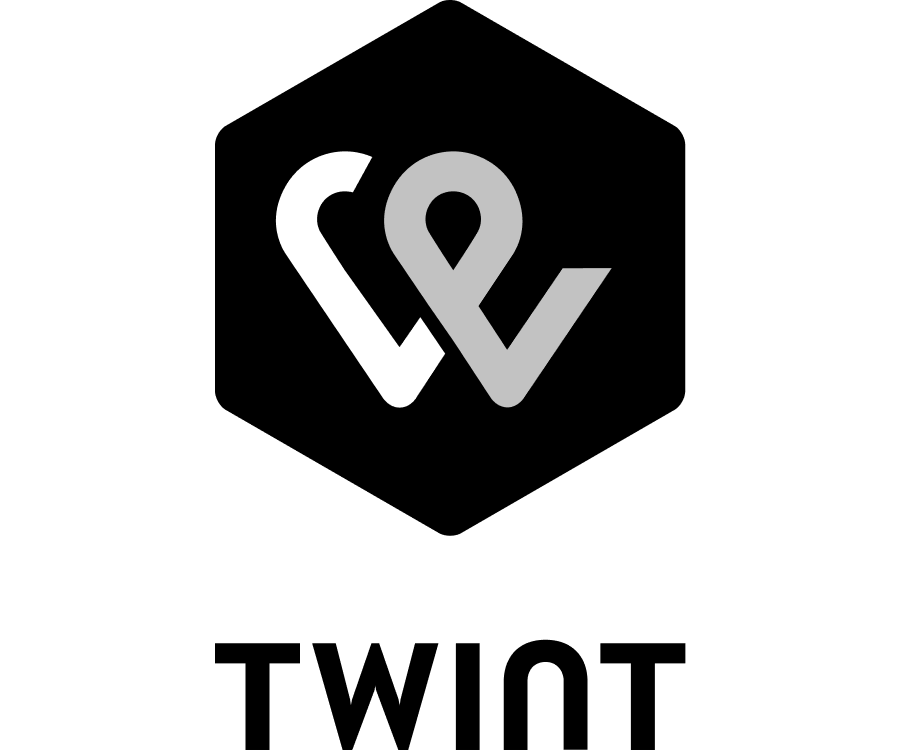
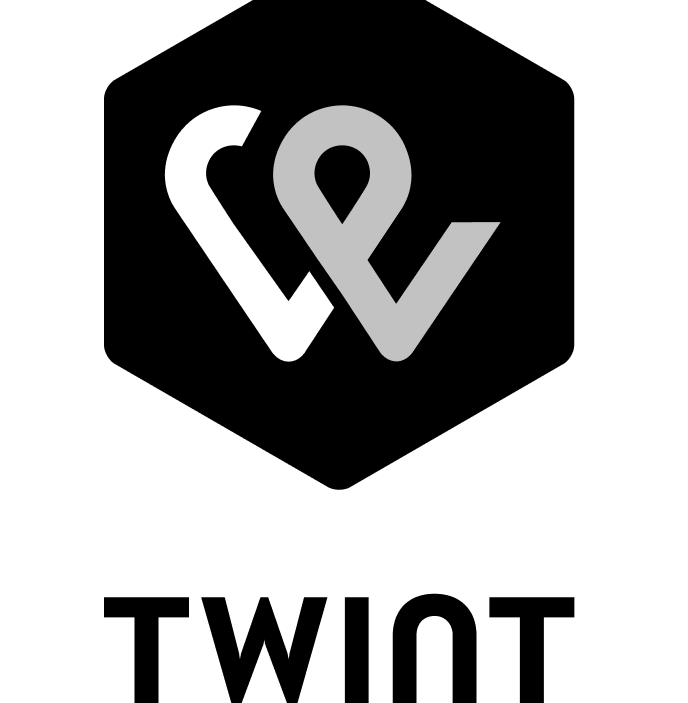
50%

diff --git a/css/style.css b/css/style.css
@@ -212,6 +212,8 @@ h6 {font-size:17px;text-transform:uppercase;padding:0 0 23px;}
 	width: 300px;
 }
 .twint{
+	margin-top: 11px;
+
 	height: 50px;
 }
 
@@ -237,7 +239,7 @@ h6 {font-size:17px;text-transform:uppercase;padding:0 0 23px;}
 .advanced-search .form-group .radio span 			{border-color:#fff;}
 .advanced-search .right 	{width:23%;}
 .advanced-search .btn 	{width:100%;}
-
+div{padding: 0;}
 .form-group div.selector					{border-color:#fff;height:47px;line-height:46px;color:#191F26;}
 .form-group div.selector:focus			{border-color:#fff;}
 .form-group div.selector span				{height:47px;line-height:46px;}
@@ -951,6 +953,8 @@ div.radio input 						{opacity: 0;filter: alpha(opacity=0);-moz-opacity: 0;borde
 	width: 200px;
 }
 .twint{
+	margin-top: 12px;
+
 	height: 40px;
 }
 .full-width, 	 	
@@ -1045,6 +1049,8 @@ div.radio input 						{opacity: 0;filter: alpha(opacity=0);-moz-opacity: 0;borde
 	width: 200px;
 }
 .twint{
+	margin-top: 12px;
+
 	height: 40px;
 }
 .gmap {height:200px;}
@@ -1069,6 +1075,8 @@ div.radio input 						{opacity: 0;filter: alpha(opacity=0);-moz-opacity: 0;borde
 	width: 200px;
 }
 .twint{
+	margin-top: 12px;
+
 	height: 35px;
 }
 .twoway .wrap div 				{width:100%;padding:0 0 15px;margin:0 0 20px;border-bottom:1px solid rgba(0,0,0,.15);-webkit-box-shadow:0 1px 0 rgba(255,255,255,.3);-moz-box-shadow:0 1px 0 rgba(255,255,255,.3);box-shadow:0 1px 0 rgba(255,255,255,.3);}
@@ -1086,6 +1094,8 @@ div.radio input 						{opacity: 0;filter: alpha(opacity=0);-moz-opacity: 0;borde
 	width: 200px;
 }
 .twint{
+	margin-top: 12px;
+
 	height: 30px;
 }
 .gmap {height:150px;}
@@ -1099,6 +1109,7 @@ div.radio input 						{opacity: 0;filter: alpha(opacity=0);-moz-opacity: 0;borde
 	width: 200px;
 }
 .twint{
+	margin-top: 12px;
 	height: 30px;
 }
 .xdsoft_datetimepicker 		{padding-right:0;max-width:100%;}

diff --git a/index.html b/index.html
@@ -146,6 +146,7 @@
 						
 						<div class="form-group left">
 							<img class="twint" src="images/uploads/twint.png"/>
+							
 						</div>
 						<div class="form-group left">
 							<img class="visa" src="images/uploads/visa.png"/>
